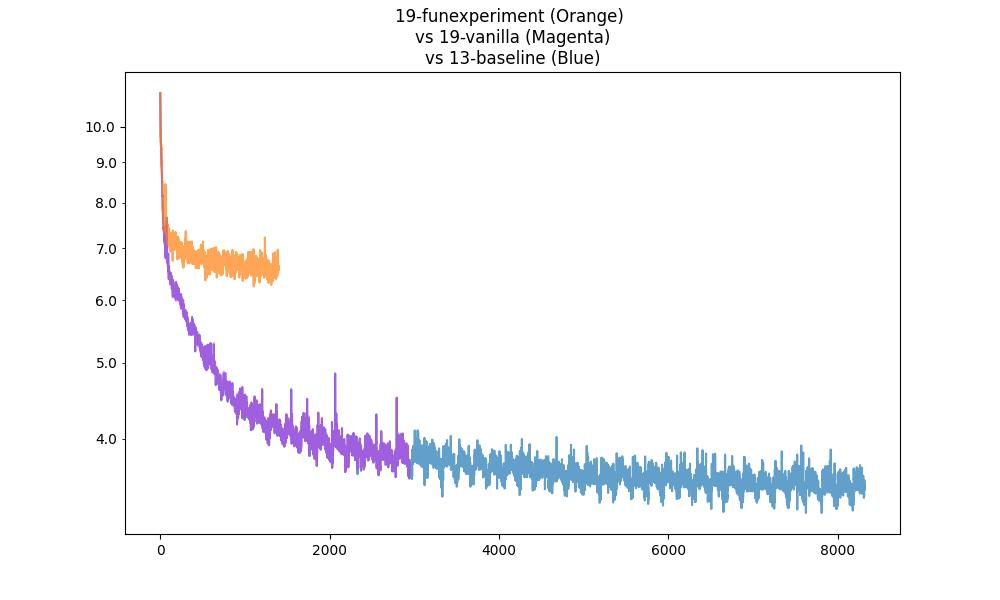
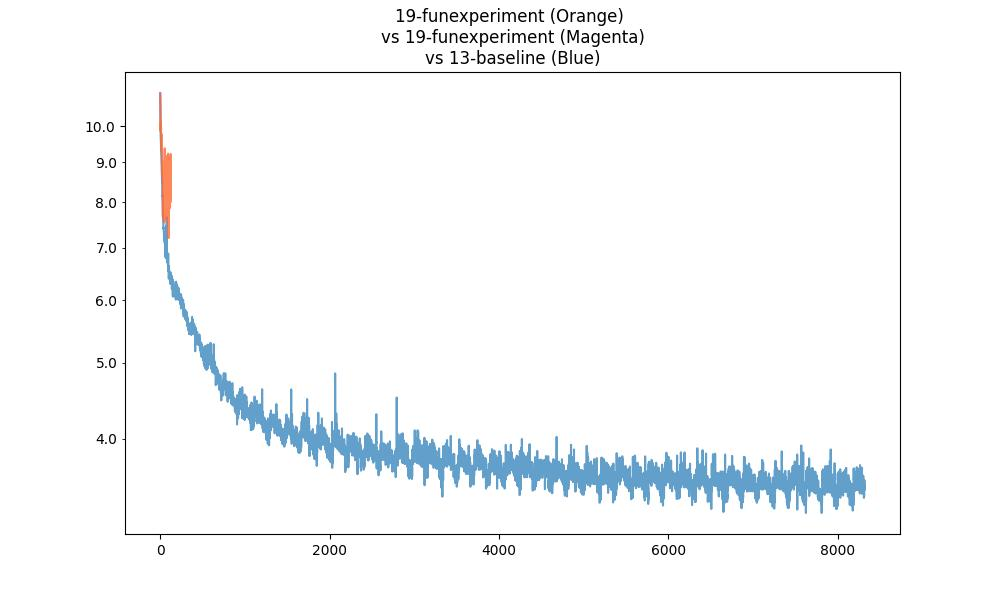
up

Changed region(s): [[0.155, 0.24, 0.434, 0.81], [0.372, 0.03, 0.651, 0.09], [0.093, 0.39, 0.124, 0.42]]

diff --git a/train_sequential_ben.py b/train_sequential_ben.py
@@ -152,6 +152,7 @@ class CausalSelfAttention(DualModule):
                 k = torch.cat((kOld, k), dim=1) # save along the T dimension
                 v = torch.cat((vOld, v), dim=1) # save along the T dimension
                 T_with_cache = k.size(1)
+            # print(T_with_cache, "Hello")
 
             newKvCache = (k, v)
 
@@ -1180,12 +1181,12 @@ test_name="19-funexperiment"
 
 # We want a larger batch size to follow GPT-3 Small, roughly B*T = 0.5M; but setting B = 488 will blow up the GPU.
 # Since we only have small GPUs, we'll just simulate large batches using accumulation.
-B = 64 # micro batch size, will do forward backward but not do an update yet # previously 16 # A100 can do 64?
-T = 64 # sequence length # 16 # 1024
+B = 192 # micro batch size, will do forward backward but not do an update yet # previously 16 # A100 can do 64?
+T = 32 # sequence length # 16 # 1024
 config_ = GPTConfig(vocab_size=50304, block_size=T, n_layer=12)#, n_embd=1296) #, n_layer=24, n_head=16, n_embd=1024)
 
 
-total_batch_size = B * T # 8 * 16 * T # 524288 # B*T # TODO change to 524288 # 2**19 ~0.5M in number of tokens #32 
+total_batch_size = B * T * 12 # 8 * 16 * T # 524288 # B*T # TODO change to 524288 # 2**19 ~0.5M in number of tokens #32 
 max_steps = 300000 + 1 # How many steps do we train for
 # Implement cosine lr decay in the style of GPT-3
 max_lr = 6e-4 # from GPT 3 paper # double it because it seems to work # quadruple it
@@ -1222,6 +1223,7 @@ flag_str = observability.extract_flagged_code()
 # Reusing blocks, max LR 6e-4, alllayerloss={ALL_LAYER_LOSS}, 
 test_description=f"""```
 Transformer, max LR {max_lr} n_layer {config_.n_layer}
+Batch={B} T={T}
 Setting:
 ==details======
 {flag_str}
